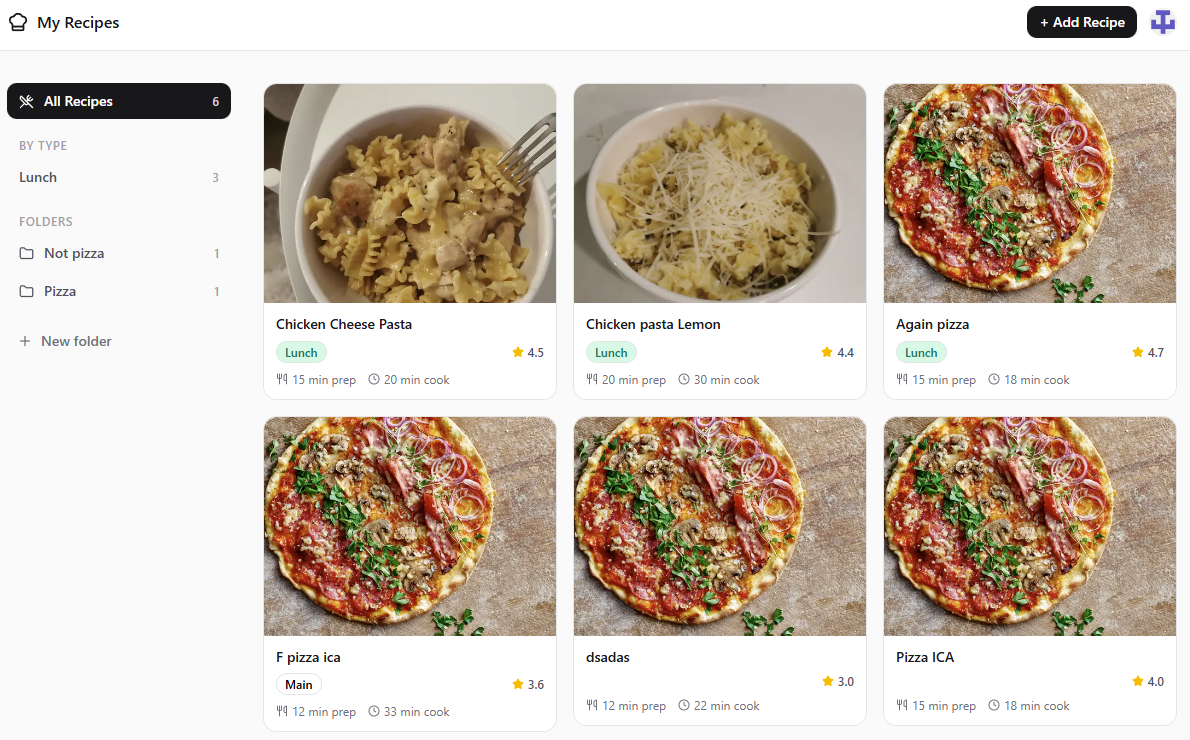
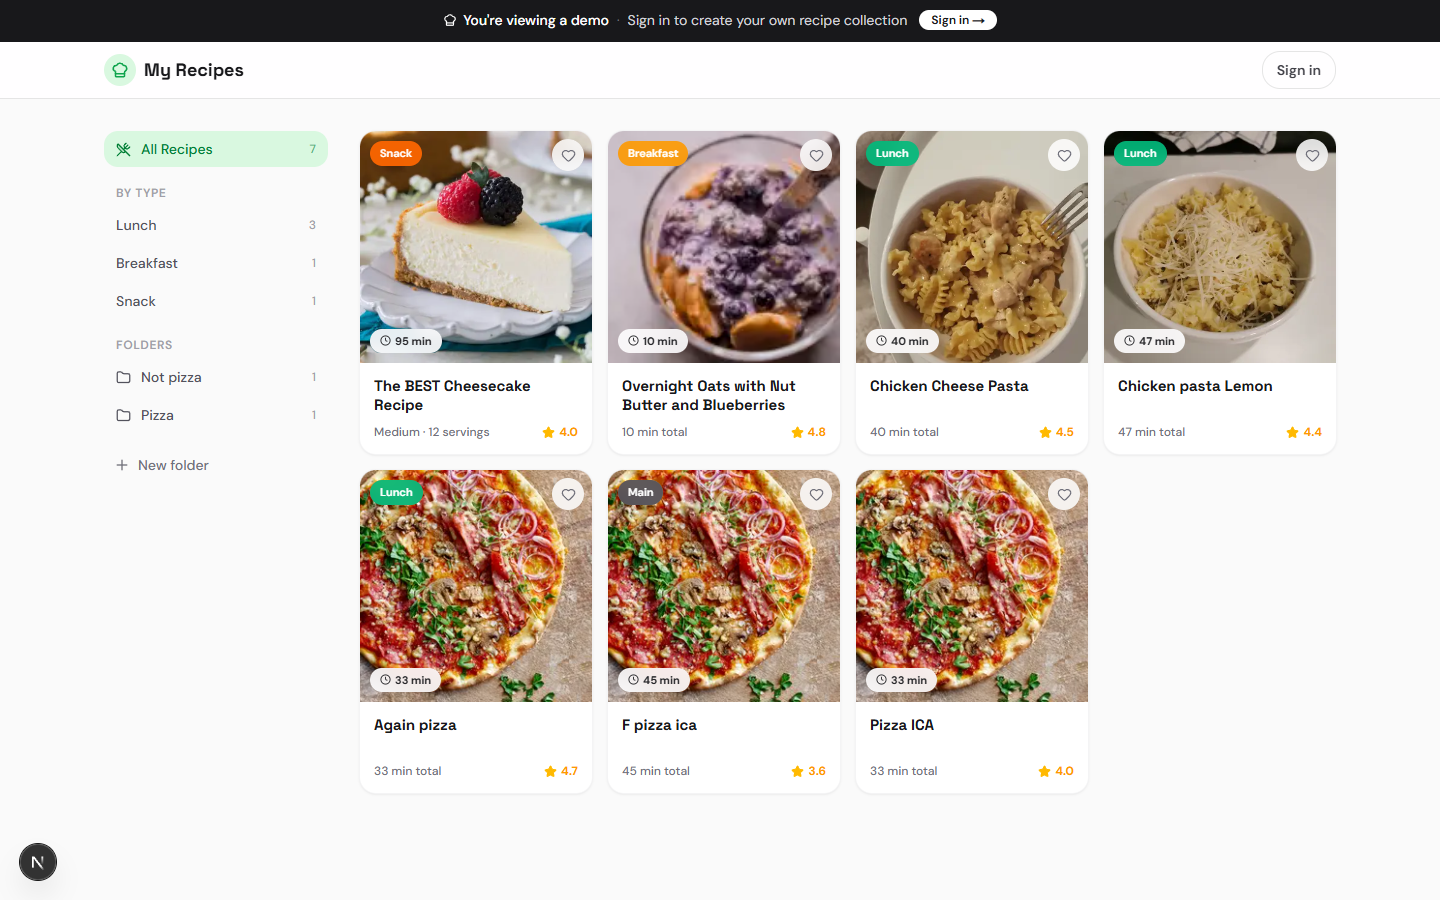
Update README for the Foodie redesign + AI Create
- Lead with the AI features (Get 3 ideas, import, provenance, BYOK)
- Refresh screenshots to the redesigned app (desktop + mobile)
- Add AI / Unsplash rows to the tech stack and env vars
- Point demo + repo links at the real URLs

diff --git a/README.md b/README.md
@@ -48,50 +48,59 @@
 
 A public demo is available at `/demo` — no account required. Visitors can browse real recipes in read-only mode to see the full UI without signing up.
 
-> **[Try the live demo &rarr;](https://your-app.vercel.app/demo)**
+> **[Try the live demo &rarr;](https://my-recipe-app.vercel.app/demo)**
 
 ---
 
 ## Features
 
-- **[Pinterest-style recipe grid](src/components/recipe-grid.tsx)** — responsive masonry layout (1→2→3→4 columns) with hero images, dish type badges, star ratings, and prep/cook times
-- **[Full recipe detail page](src/app/recipe/[id]/page.tsx)** — ingredients list, step-by-step instructions, metadata, and hero image
-- **[Add & edit recipes](src/components/recipe-upload-dialog.tsx)** — structured form with image upload, dynamic ingredient rows, multi-select dish types, tags, and folder assignment
-- **[Folder organization](src/components/folder-sidebar.tsx)** — create folders, filter the grid by folder, and view recipe counts per folder
-- **[Multi-select & batch move](src/components/recipe-grid.tsx)** — select multiple recipe cards and move them to a folder in one action
-- **[Mobile filter bar](src/components/mobile-filter-bar.tsx)** — bottom sheet with cook time range, dish type chips, and folder filters
-- **[Public demo mode](src/app/demo/page.tsx)** — unauthenticated visitors browse your real recipes read-only via a `DEMO_CLERK_ID` environment variable
-- **[PWA install prompt](src/components/install-banner.tsx)** — smart banner with 2-day dismissal cooldown; Android uses native install prompt, iOS shows step-by-step instructions
-- **[OAuth authentication](src/proxy.ts)** — GitHub, Google, and Apple sign-in via Clerk middleware
-- **[Rate limiting](src/lib/ratelimit.ts)** — Upstash Redis protects upload (10/hr) and delete (20/hr) endpoints
-- **[Error monitoring](src/instrumentation.ts)** — Sentry captures server action errors, request errors, and client-side exceptions
-- **[Analytics](src/components/posthog-provider.tsx)** — PostHog tracks pageviews and auto-identifies authenticated users
+### ✨ Create with AI (bring your own key)
+
+- **[Get 3 ideas](src/components/recipe-import-panel.tsx)** — describe what you feel like cooking ("simple chicken dinner", "pancakes with fruit"). The AI returns **3 titles only** (token-light), then generates the full recipe **only for the one you pick**.
+- **[Import from a link or text](src/server/actions/import.ts)** — paste a recipe URL or any text and the AI fills every field, parsing schema.org data when present and **researching the gaps** (e.g. a missing cook temperature).
+- **[Provenance you can trust](src/components/recipe-import-panel.tsx)** — every field is colour-coded **from your source** vs **added by AI**, and nothing is saved until you review it.
+- **[Always gets a cover photo](src/lib/ai/providers.ts)** — source image → Unsplash → keyless AI-generated, so an import never lands without a picture.
+- **[Bring your own key](src/lib/ai/settings.ts)** — Anthropic, OpenAI, Google or Mistral; the model list adapts to the provider, and keys live only in the browser, never on the server.
+
+### 🍳 Cookbook
+
+- **[Foodie recipe grid](src/components/recipe-card.tsx)** — responsive card grid (1→2→3→4 columns) with hero images, category chips, star ratings, and total time.
+- **[Rich recipe page](src/components/recipe-detail.tsx)** — hero with overlay title, quick-facts strip, **Ingredients / Method tabs**, a **servings scaler** that rescales amounts, and tap-to-check ingredients. Missing fields collapse instead of showing blanks.
+- **[Add & edit, with drafts](src/components/recipe-upload-dialog.tsx)** — step-by-step method boxes, multi-photo upload, clickable star rating, bigger keyboard-safe mobile fields, **autosave drafts**, and a **confirm-on-close** so an accidental dismiss never loses work.
+- **[Folders, multi-select & filters](src/components/folder-sidebar.tsx)** — organise into folders, batch-move recipes, and filter by cook time / dish type on mobile.
+- **[Public demo mode](src/app/demo/page.tsx)** — unauthenticated visitors browse real recipes read-only via a `DEMO_CLERK_ID` environment variable.
+
+### 🛠 Platform
+
+- **[OAuth authentication](src/proxy.ts)** — GitHub, Google, and Apple sign-in via Clerk middleware.
+- **[Rate limiting](src/lib/ratelimit.ts)** — Upstash Redis protects upload (10/hr) and delete (20/hr) endpoints.
+- **[Error monitoring](src/instrumentation.ts)** — Sentry captures server action, request, and client-side errors.
+- **[Analytics](src/components/posthog-provider.tsx)** — PostHog tracks pageviews and auto-identifies authenticated users.
+- **[Installable PWA](src/components/install-banner.tsx)** — smart install banner (Android native prompt, iOS step-by-step) with a 2-day cooldown.
 
 ---
 
 ## Screenshots
 
-<!-- REPLACE these placeholders with your actual screenshots -->
-
 <table>
   <tr>
     <td align="center" width="50%">
-      <strong>Recipe Grid (Desktop)</strong><br /><br />
+      <strong>Recipe grid (Desktop)</strong><br /><br />
       <img src="docs/screenshots/desktop-grid.png" alt="Desktop grid view" width="100%" />
     </td>
     <td align="center" width="50%">
-      <strong>Recipe Detail (Desktop)</strong><br /><br />
+      <strong>Recipe page (Desktop)</strong><br /><br />
       <img src="docs/screenshots/desktop-recipe.png" alt="Desktop recipe detail" width="100%" />
     </td>
   </tr>
   <tr>
     <td align="center">
-      <strong>Recipe Grid (Mobile)</strong><br /><br />
+      <strong>Recipe grid (Mobile)</strong><br /><br />
       <img src="docs/screenshots/mobile-grid.png" alt="Mobile grid view" width="280" />
     </td>
     <td align="center">
-      <strong>Add Recipe Form (Mobile)</strong><br /><br />
-      <img src="docs/screenshots/mobile-upload.png" alt="Mobile upload form" width="280" />
+      <strong>Recipe page (Mobile)</strong><br /><br />
+      <img src="docs/screenshots/mobile-recipe.png" alt="Mobile recipe page" width="280" />
     </td>
   </tr>
 </table>
@@ -106,8 +115,10 @@ A public demo is available at `/demo` — no account required. Visitors can brow
 | Language         | TypeScript 5                  | End-to-end type safety from database schema to UI props             |
 | Styling          | Tailwind CSS v4 + shadcn/ui   | Utility-first CSS with accessible, pre-built component primitives   |
 | Database         | Neon Postgres + Drizzle ORM   | Serverless Postgres with type-safe queries — zero raw SQL           |
+| AI (optional)    | Anthropic · OpenAI · Google · Mistral | "Create with AI" — bring-your-own-key recipe ideas, import & generation |
+| Stock photos     | Unsplash (optional)           | Cover images for AI-created recipes, with a keyless generated fallback |
 | Auth             | Clerk                         | Drop-in OAuth (GitHub, Google, Apple) with middleware route protection |
-| File Upload      | Uploadthing                   | Type-safe uploads with built-in CDN — one hero image per recipe     |
+| File Upload      | Uploadthing                   | Type-safe uploads with built-in CDN — cover + gallery photos per recipe |
 | Error Monitoring | Sentry                        | Server action, edge, and client error capture with source maps      |
 | Analytics        | PostHog                       | Privacy-friendly product analytics with auto user identification    |
 | Rate Limiting    | Upstash Redis                 | Serverless Redis — sliding window limits on upload and delete       |
@@ -127,7 +138,7 @@ A public demo is available at `/demo` — no account required. Visitors can brow
 
 ```bash
 # Clone the repository
-git clone https://github.com/your-username/my-recipe-app.git
+git clone https://github.com/Kizza00232Jera/my-recipe-app.git
 cd my-recipe-app
 
 # Install dependencies
@@ -176,6 +187,9 @@ UPSTASH_REDIS_REST_TOKEN=
 
 # Demo mode (optional)
 DEMO_CLERK_ID=
+
+# AI "Create with AI" (optional — users can also paste their own keys in-app)
+UNSPLASH_ACCESS_KEY=
 ```
 
 | Variable | Description | Where to Get It |
@@ -194,6 +208,7 @@ DEMO_CLERK_ID=
 | `UPSTASH_REDIS_REST_URL` | Upstash Redis REST endpoint | [upstash.com](https://upstash.com) → database → REST API |
 | `UPSTASH_REDIS_REST_TOKEN` | Upstash Redis REST token | Same Upstash dashboard page |
 | `DEMO_CLERK_ID` | Your Clerk user ID (enables `/demo`) | Clerk → Users → your account → user ID (starts with `user_`) |
+| `UNSPLASH_ACCESS_KEY` | _Optional._ Shared stock-photo key for AI-created recipes; without it the app falls back to keyless AI image generation. Users can also enter their own key in-app. | [unsplash.com/developers](https://unsplash.com/developers) |
 
 ### Database Setup
 